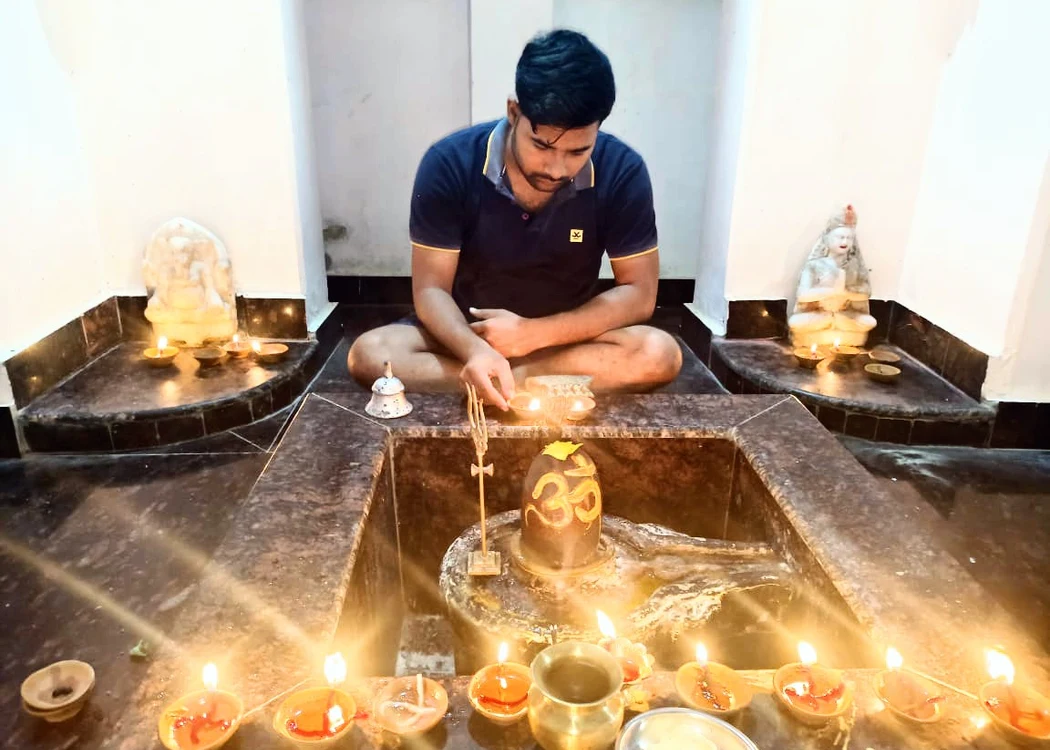
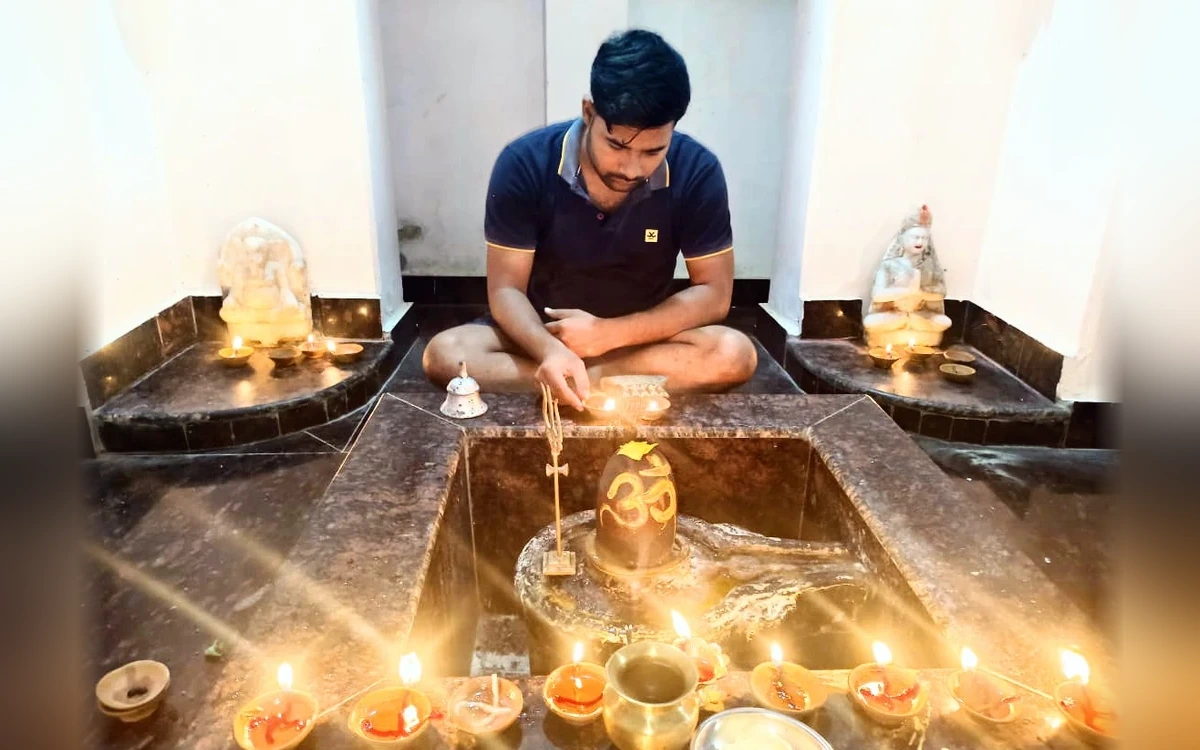
Update products.html promotional offer cards to full-bleed edge-to-edge uncropped ritual images

diff --git a/pages/products.html b/pages/products.html
@@ -870,11 +870,11 @@
         <div class="grid grid-cols-1 lg:grid-cols-2 gap-8 items-stretch">
           <!-- Offer 1: Wedding & Upanayanam Tamboola Return Gifts -->
           <div class="sacred-card overflow-hidden flex flex-col h-full" data-aos="fade-right">
-            <div class="img-zoom-wrap h-64 sm:h-72 lg:h-80 w-full shrink-0 relative bg-theme-secondary/30 dark:bg-white/5 flex items-center justify-center overflow-hidden">
-              <img src="../assets/images/prod-offer-wedding.webp" alt="Vivah and Upanayanam Auspicious Tamboola Return Gift Hampers" class="w-full h-full object-contain p-1 sm:p-1.5 transition-transform duration-500 hover:scale-105" width="1050"
+            <div class="img-zoom-wrap aspect-[16/10] w-full shrink-0 relative overflow-hidden" style="aspect-ratio: 16/10;">
+              <img src="../assets/images/prod-offer-wedding.webp" alt="Vivah and Upanayanam Auspicious Tamboola Return Gift Hampers" class="w-full h-full object-cover transition-transform duration-500 hover:scale-105" width="1200"
                 height="750" loading="lazy" />
               <span
-                class="absolute top-4 left-4 px-3.5 py-1.5 rounded-full text-xs font-bold bg-[#702B32] text-[#FFF9EF] shadow-md">Bulk
+                class="absolute top-4 left-4 px-3.5 py-1.5 rounded-full text-xs font-bold bg-[#702B32] text-[#FFF9EF] shadow-md z-10">Bulk
                 Privilege: Up to 22% Off</span>
             </div>
             <div class="p-6 sm:p-8 flex-1 flex flex-col justify-between space-y-4">
@@ -901,11 +901,11 @@
 
           <!-- Offer 2: Complete Home Mandir Brassware Bundle -->
           <div class="sacred-card overflow-hidden flex flex-col h-full" data-aos="fade-left">
-            <div class="img-zoom-wrap h-64 sm:h-72 lg:h-80 w-full shrink-0 relative bg-theme-secondary/30 dark:bg-white/5 flex items-center justify-center overflow-hidden">
-              <img src="../assets/images/prod-offer-temple.webp" alt="Complete Home Mandir Brassware Ensemble Bundle Save 25 Percent" class="w-full h-full object-contain p-1 sm:p-1.5 transition-transform duration-500 hover:scale-105" width="1050"
+            <div class="img-zoom-wrap aspect-[16/10] w-full shrink-0 relative overflow-hidden" style="aspect-ratio: 16/10;">
+              <img src="../assets/images/prod-offer-temple.webp" alt="Complete Home Mandir Brassware Ensemble Bundle Save 25 Percent" class="w-full h-full object-cover transition-transform duration-500 hover:scale-105" width="1200"
                 height="750" loading="lazy" />
               <span
-                class="absolute top-4 left-4 px-3.5 py-1.5 rounded-full text-xs font-bold bg-[#C69B45] text-[#1F140E] shadow-md">Save
+                class="absolute top-4 left-4 px-3.5 py-1.5 rounded-full text-xs font-bold bg-[#C69B45] text-[#1F140E] shadow-md z-10">Save
                 25% • Bundle Offer</span>
             </div>
             <div class="p-6 sm:p-8 flex-1 flex flex-col justify-between space-y-4">
